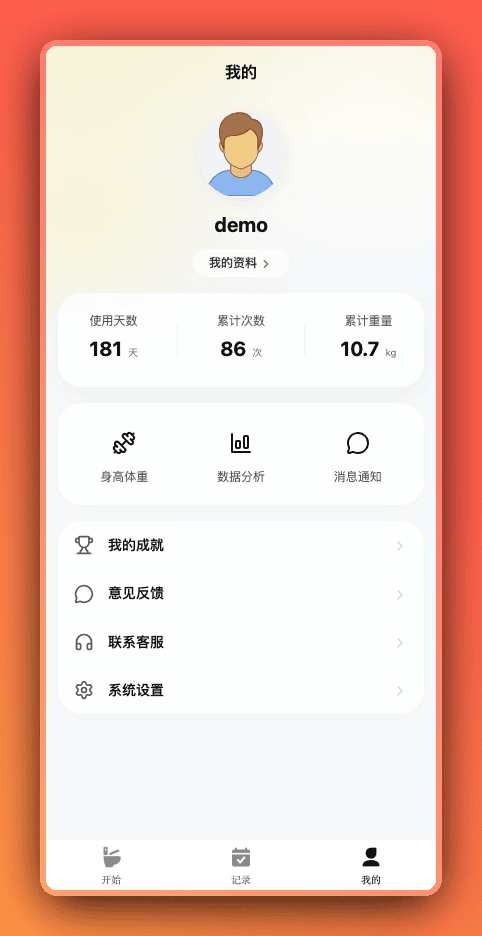
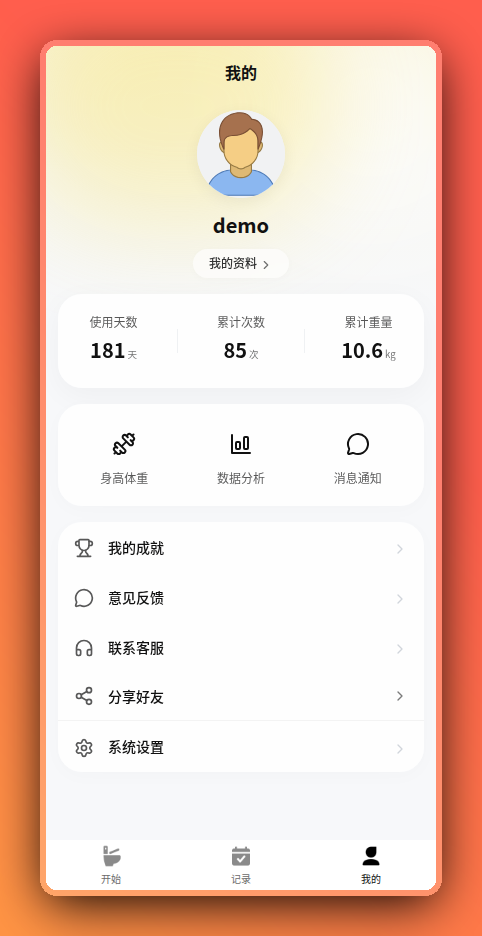
feat: Add "Share Friend" feature to App and H5 member pages with WeChat bugfix: Update share menu configuration and remove legacy share logic

diff --git a/src/components/ShareSheet.vue b/src/components/ShareSheet.vue
@@ -1,0 +1,227 @@
+<template>
+  <u-popup :show="visible" mode="bottom" :round="20" @close="close">
+    <view class="share-sheet">
+      <view class="share-sheet__title">分享好友</view>
+      <view class="share-sheet__grid" :class="{ 'share-sheet__grid--single': !showWechat }">
+        <view v-if="showWechat" class="share-sheet__item" @tap="doShareWechat">
+          <view class="share-sheet__icon"><icon-lucide-message-square :size="24" /></view>
+          <text class="share-sheet__label">微信好友</text>
+        </view>
+        <view v-if="showWechat" class="share-sheet__item" @tap="doShareTimeline">
+          <view class="share-sheet__icon"><icon-lucide-users :size="24" /></view>
+          <text class="share-sheet__label">朋友圈</text>
+        </view>
+        <view class="share-sheet__item" @tap="doCopyLink">
+          <view class="share-sheet__icon"><icon-lucide-link :size="24" /></view>
+          <text class="share-sheet__label">复制链接</text>
+          <view v-if="!showWechat" class="share-sheet__arrow"><icon-lucide-chevron-right :size="16" /></view>
+        </view>
+      </view>
+      <view class="share-sheet__cancel" @tap="close">取消</view>
+    </view>
+  </u-popup>
+</template>
+
+<script setup lang="ts">
+import { useConfig } from '@/brick/composables/useBaseStore'
+import { useBranding } from '@/brick/composables/useBranding'
+import { dialog } from '@/brick/lib/dialog'
+import { getRuntimePlatform } from '@/brick/lib/platform'
+import { computed, onMounted, ref } from 'vue'
+
+defineOptions({ name: 'ShareSheet' })
+
+const { config } = useConfig()
+const branding = useBranding()
+
+const visible = ref(false)
+// App 旧包可能没编译 Share 模块，先用 getProvider 探测再决定是否展示微信项
+const wechatAvailable = ref(true)
+
+const shareLink = computed(() => {
+  const base = String(config.value?.siteBase || '').replace(/\/+$/, '')
+  return base ? `${base}/#/pages/wc` : ''
+})
+
+const shareTitle = computed(() => config.value?.Ruceriji_ShareTitle || branding.value.siteName)
+const shareSummary = computed(() => branding.value.siteSlogan || '')
+const shareImage = computed(() => config.value?.Ruceriji_ShareImage || branding.value.siteLogo || '')
+
+const showWechat = computed(() => {
+  let show = false
+  // #ifdef APP-PLUS
+  show = wechatAvailable.value
+  // #endif
+  // #ifdef H5
+  // 模拟 App 时也展示微信项，便于 H5 里查看、截图与自动化测试
+  show = getRuntimePlatform() === 'app'
+  // #endif
+  return show
+})
+
+onMounted(() => {
+  // #ifdef APP-PLUS
+  uni.getProvider({
+    service: 'share',
+    success: (res: any) => {
+      wechatAvailable.value = (res?.provider || []).includes('weixin')
+    },
+    fail: () => {
+      wechatAvailable.value = false
+    },
+  })
+  // #endif
+})
+
+function doShareWechat() {
+  doShareToScene('WXSceneSession')
+}
+
+function doShareTimeline() {
+  doShareToScene('WXSceneTimeline')
+}
+
+function doShareToScene(scene: 'WXSceneSession' | 'WXSceneTimeline') {
+  if (!shareLink.value) {
+    dialog.tipError('分享链接暂不可用，请稍后重试')
+    return
+  }
+  // #ifdef APP-PLUS
+  uni.share({
+    provider: 'weixin',
+    scene,
+    type: 0,
+    href: shareLink.value,
+    title: shareTitle.value,
+    summary: shareSummary.value,
+    imageUrl: shareImage.value,
+    success: () => close(),
+    fail: (err: any) => {
+      // 用户主动取消也走 fail，不提示错误
+      if (/cancel/i.test(String(err?.errMsg || ''))) return
+      dialog.tipError('分享失败，可复制链接分享')
+    },
+  })
+  // #endif
+  // #ifdef H5
+  dialog.tipError('模拟环境：微信分享需在真机验证')
+  // #endif
+}
+
+function doCopyLink() {
+  if (!shareLink.value) {
+    dialog.tipError('分享链接暂不可用，请稍后重试')
+    return
+  }
+  uni.setClipboardData({
+    data: shareLink.value,
+    success: () => {
+      close()
+      dialog.tipSuccess('已复制')
+    },
+  })
+}
+
+function show() {
+  visible.value = true
+}
+
+function close() {
+  visible.value = false
+}
+
+defineExpose({ show, close })
+</script>
+
+<style lang="scss" scoped>
+:deep(.u-popup__content) {
+  width: 100%;
+  max-width: 480px;
+  margin: 0 auto;
+  overflow: hidden;
+}
+
+.share-sheet {
+  max-width: 480px;
+  margin: 0 auto;
+  padding: 20px 16px calc(12px + env(safe-area-inset-bottom, 0px));
+  border-radius: 20px 20px 0 0;
+  background-color: var(--token-surface);
+}
+
+.share-sheet__title {
+  text-align: center;
+  font-size: 15px;
+  font-weight: 600;
+  color: var(--token-text);
+}
+
+.share-sheet__grid {
+  display: flex;
+  justify-content: space-around;
+  padding: 20px 0 12px;
+}
+
+.share-sheet__item {
+  display: flex;
+  flex-direction: column;
+  align-items: center;
+  gap: 8px;
+  width: 72px;
+}
+
+.share-sheet__icon {
+  width: 52px;
+  height: 52px;
+  display: flex;
+  align-items: center;
+  justify-content: center;
+  border-radius: 16px;
+  background-color: var(--token-chip-bg);
+  color: var(--token-text);
+}
+
+.share-sheet__label {
+  font-size: 12px;
+  color: var(--token-text-secondary);
+}
+
+.share-sheet__grid--single {
+  flex-direction: column;
+  padding: 8px 0;
+}
+
+.share-sheet__grid--single .share-sheet__item {
+  flex-direction: row;
+  justify-content: flex-start;
+  width: 100%;
+  padding: 8px 4px;
+  gap: 12px;
+}
+
+.share-sheet__grid--single .share-sheet__icon {
+  width: 40px;
+  height: 40px;
+  border-radius: 12px;
+}
+
+.share-sheet__grid--single .share-sheet__label {
+  font-size: 15px;
+  color: var(--token-text);
+}
+
+.share-sheet__arrow {
+  margin-left: auto;
+  display: flex;
+  color: var(--token-text-disabled);
+}
+
+.share-sheet__cancel {
+  margin-top: 8px;
+  padding: 12px;
+  border-top: 1px solid var(--token-divider);
+  text-align: center;
+  font-size: 15px;
+  color: var(--token-text-secondary);
+}
+</style>

diff --git a/src/pages/member.vue b/src/pages/member.vue
@@ -116,7 +116,6 @@
           open-type="share"
           class="px-4 py-3.5 flex items-center bg-transparent text-left m-0 rounded-none border-b border-gray-100/30 active:bg-gray-50/50 transition-colors after:border-none"
           style="line-height: inherit; color: inherit"
-          @click="doShare"
         >
           <view class="w-6 flex-shrink-0 text-[#111111] opacity-70 flex items-center"
             ><icon-lucide-share-2 :size="20"
@@ -135,6 +134,9 @@
           <view class="flex-shrink-0 text-gray-300"><icon-lucide-chevron-right :size="16" /></view>
         </view>
         <!-- #endif -->
+        <!-- #ifdef APP-PLUS || H5 -->
+        <ShareEntry @tap="openShare" />
+        <!-- #endif -->
         <view
           class="px-4 py-3.5 flex items-center active:bg-gray-50/50 transition-colors"
           @click="router.to('/brick/module/system/setting')"
@@ -148,6 +150,9 @@
 
     <bui-member-login-dialog ref="memberLoginDialog" />
     <MemberInfoSettingDialog ref="memberInfoSettingDialog" />
+    <!-- #ifdef APP-PLUS || H5 -->
+    <ShareSheet ref="shareSheet" />
+    <!-- #endif -->
   </view>
 </template>
 
@@ -155,7 +160,6 @@
 import { Starter } from '@/brick/BrickUni'
 import { useBranding } from '@/brick/composables/useBranding'
 import { useConfig, useUi } from '@/brick/composables/useBaseStore'
-import { useShare } from '@/brick/composables/useShare'
 import { useUser } from '@/brick/composables/useUser'
 import { router } from '@/brick/lib/router'
 import { useWcAsset } from '@/composables/useRuceriji'
@@ -163,6 +167,13 @@ import { onReady } from '@dcloudio/uni-app'
 import { computed, ref } from 'vue'
 import MemberInfoSettingDialog from './components/MemberInfoSettingDialog.vue'
 import MemberCenterTop from '@/components/MemberCenterTop.vue'
+// #ifdef MP-WEIXIN
+import { onShareAppMessage, onShareTimeline } from '@dcloudio/uni-app'
+// #endif
+// #ifdef APP-PLUS || H5
+import ShareEntry from '@/components/ShareEntry.vue'
+import ShareSheet from '@/components/ShareSheet.vue'
+// #endif
 
 defineOptions({ name: 'MemberPage' })
 
@@ -170,10 +181,10 @@ const { user, userInit, requireUserLogin, requireUserLoginRouteTo } = useUser()
 const { config, SystemConfig } = useConfig()
 const branding = useBranding()
 const { ui, getPageDefaultTitle, autoSetNavigationBarColor } = useUi()
-const { shareConfig, setShareConfig, getShareAppMessage, getShareTimeline } = useShare()
 const { biz } = useWcAsset()
 
 const memberInfoSettingDialog = ref<any>(null)
+const shareSheet = ref<any>(null)
 
 const share = computed(() => {
   return {
@@ -191,9 +202,22 @@ function doOpenMemberSetting() {
 
 function onContact() {}
 
-function doShare() {
-  uni.showShareMenu({ menus: ['shareAppMessage', 'shareTimeline'] })
+function openShare() {
+  shareSheet.value?.show()
 }
+
+// #ifdef MP-WEIXIN
+onShareAppMessage(() => ({
+  title: share.value.title,
+  path: share.value.path,
+  imageUrl: share.value.imageUrl,
+}))
+
+onShareTimeline(() => ({
+  title: share.value.title,
+  imageUrl: share.value.imageUrl,
+}))
+// #endif
 
 onReady(() => {
   Starter.boot()

diff --git a/src/components/ShareEntry.vue b/src/components/ShareEntry.vue
@@ -1,0 +1,49 @@
+<template>
+  <view class="share-entry border-b border-gray-100/30" @tap="emit('tap')">
+    <view class="share-entry__icon"><icon-lucide-share-2 :size="20" /></view>
+    <view class="share-entry__label">分享好友</view>
+    <view class="share-entry__arrow"><icon-lucide-chevron-right :size="16" /></view>
+  </view>
+</template>
+
+<script setup lang="ts">
+defineOptions({ name: 'ShareEntry' })
+
+const emit = defineEmits(['tap'])
+</script>
+
+<style lang="scss" scoped>
+.share-entry {
+  display: flex;
+  align-items: center;
+  padding: 14px 16px;
+  transition: background-color 0.15s;
+}
+
+.share-entry:active {
+  background-color: var(--token-panel);
+}
+
+.share-entry__icon {
+  width: 24px;
+  flex-shrink: 0;
+  display: flex;
+  align-items: center;
+  color: var(--token-text);
+  opacity: 0.7;
+}
+
+.share-entry__label {
+  flex: 1;
+  margin-left: 10px;
+  font-size: 14px;
+  font-weight: 500;
+  color: var(--token-text);
+}
+
+.share-entry__arrow {
+  flex-shrink: 0;
+  display: flex;
+  color: var(--token-text-disabled);
+}
+</style>

diff --git a/changelog.md b/changelog.md
@@ -12,6 +12,7 @@
 ## [unreleased]
 
 - 新增：品牌支持后台覆盖：网站名称 / Logo 默认写死在代码里，后台「基本设置」配置后接口返回非空值即覆盖（登录页、登录弹窗、开始页胶囊、联系我们、分享标题与图片），接口为空时回退默认
+- 新增：App 与 H5 的「我的」页新增「分享好友」，App 可直接分享到微信好友 / 朋友圈，各端都能复制链接；微信小程序分享卡片改用后台配置的标题与封面
 - 修改：日历选中日期由黑实心圆改成黄实心圆，今天仍保留细描边圆，两者不再都是黑圆
 - 修改：记录选项的选中态去掉右上角勾选，改为浅黄底 + 700 字重，单选不再看起来像表单复选框
 - 修改：成就、数据分析的分段 Tab 与充值快捷金额的选中态统一成浅黄底，不再白底加投影或黑描边
